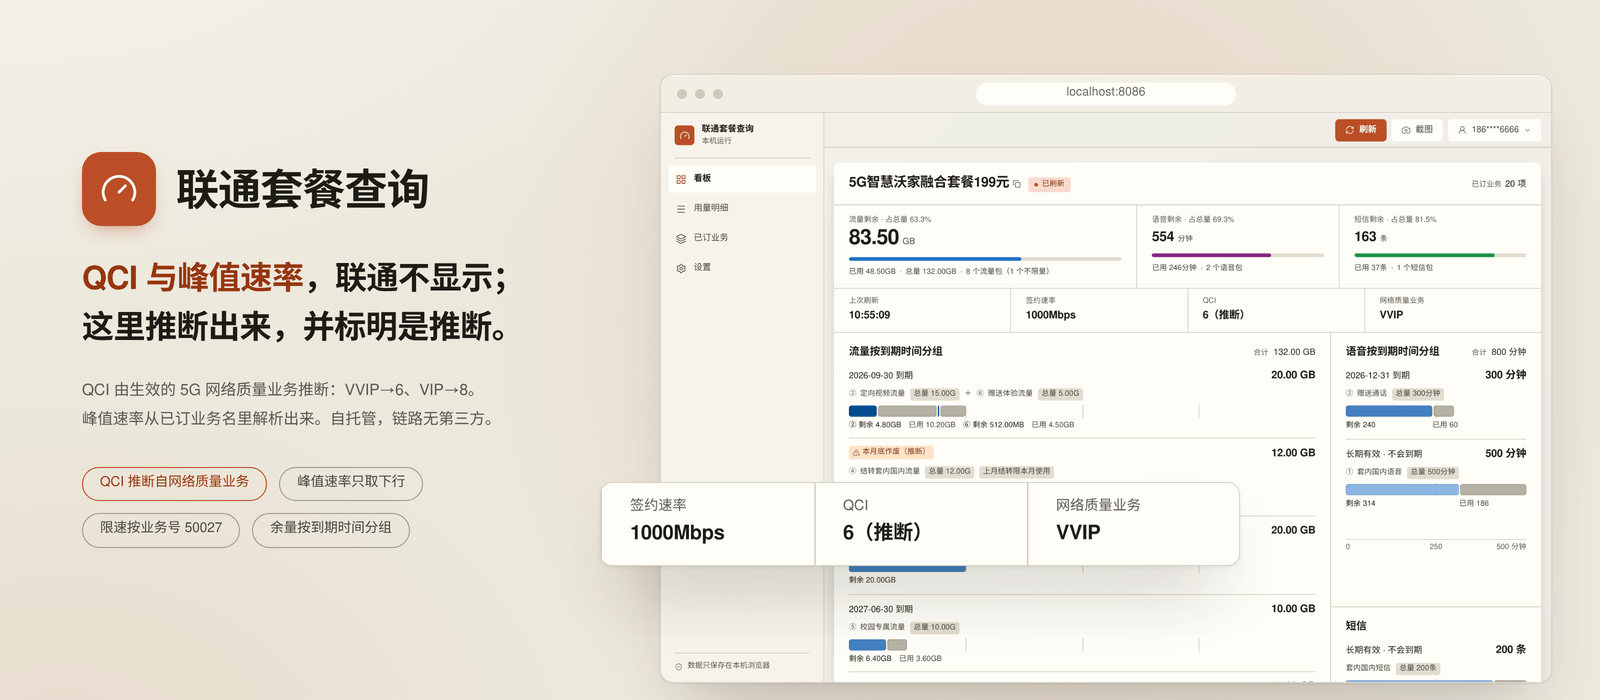
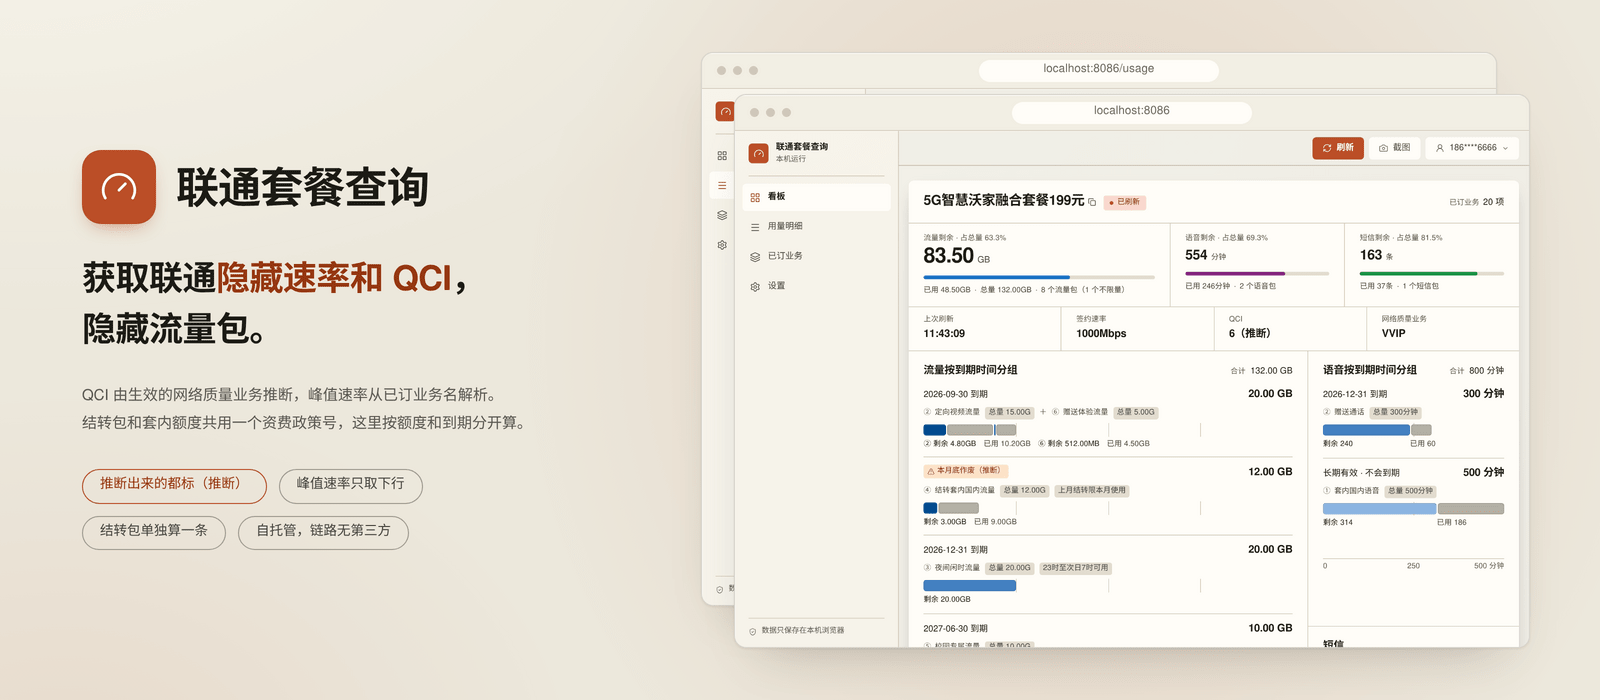
docs: plainer headline, two-window hero
The hero headline read as translated Chinese — it had put the epistemics
in the title. Use the owner's own wording, keep the derived-and-labelled
story in the body where it belongs, and give the Chinese tagline the
same plain register.

"隐藏流量包" is supportable, but the agency belongs in the supporting
line, not the claim: the carrier does return those blocks. They were
collapsing client-side, because the old identity key was the tariff
policy id and one plan derives its in-plan allowance, its carried-over
allowance and its bundled packs from a single policy. So the copy says
the packs are told apart here, never that the carrier withholds them.

Recompose the hero: drop the magnified tile strip, two windows instead
of three, a small offset, and everything inside the frame — smallest
clearance is 52px, no edge clipped.

diff --git a/README.md b/README.md
@@ -6,13 +6,13 @@
 <picture>
   <source media="(prefers-color-scheme: dark)" srcset="docs/screenshots/hero-dark.png" />
   <source media="(prefers-color-scheme: light)" srcset="docs/screenshots/hero-light.png" />
-  <img src="docs/screenshots/hero-light.png" alt="联通套餐查询 — the 签约速率, QCI and 网络质量业务 tiles lifted out of the dashboard at twice the scale, showing 1000Mbps, 6（推断）and VVIP: three parameters the carrier's own app never prints" width="880" />
+  <img src="docs/screenshots/hero-light.png" alt="联通套餐查询 — two stacked browser windows: 看板 in front with 签约速率 1000Mbps, QCI 6（推断）, 网络质量业务 VVIP and the data packs grouped by expiry date, 用量明细 behind it listing all eight packs one by one" width="880" />
 </picture>
 
 # Unicom Usage Panel
 
-**The network-quality parameters China Unicom never shows you — worked out, and labelled as worked out.**
-QCI derived from the active 5G quality subscription, peak downlink parsed out of the subscribed-service names, throttling matched by its own service id. Plan balances, grouped by expiry date, come with them — on a server you run.
+**The rate and QCI China Unicom's own app never shows you — worked out. The packs that quietly collapse into one — listed one by one.**
+QCI derived from the active 5G quality subscription, peak downlink parsed out of the subscribed-service names, every inferred value labelled `（推断）`. A carried-over allowance shares its tariff-policy id with the in-plan one, so deduplicating on that id drops it whole; identity here is the policy plus the block's own name, size and expiry. Balances come grouped by expiry date — on a server you run.
 
 [![License](https://img.shields.io/badge/license-MIT-blue?style=flat-square)](./LICENSE)
 [![Vue](https://img.shields.io/badge/Vue-3.5-4FC08D?style=flat-square&logo=vue.js&logoColor=white)](package.json)

diff --git a/README.zh-CN.md b/README.zh-CN.md
@@ -6,13 +6,13 @@
 <picture>
   <source media="(prefers-color-scheme: dark)" srcset="docs/screenshots/hero-dark.png" />
   <source media="(prefers-color-scheme: light)" srcset="docs/screenshots/hero-light.png" />
-  <img src="docs/screenshots/hero-light.png" alt="联通套餐查询 —— 从看板里放大出来的签约速率、QCI 与网络质量业务三块磁贴，显示 1000Mbps、6（推断）与 VVIP，都是官方 App 从不打印的参数" width="880" />
+  <img src="docs/screenshots/hero-light.png" alt="联通套餐查询 —— 两个叠放的浏览器窗口：前面是看板，显示签约速率 1000Mbps、QCI 6（推断）、网络质量业务 VVIP 以及按到期时间分组的流量包；后面是用量明细，八个流量包一条条列出来" width="880" />
 </picture>
 
 # 余量面板
 
-**把联通不显示的网络质量参数算出来，并老实标明这是推断。**
-QCI 由生效的 5G 网络服务质量业务推断，峰值速率从已订业务名里解析，限速按独立业务号识别；套餐余量按到期时间分组一并给你，全部跑在自己的服务器上。
+**联通不显示的速率和 QCI，这里算出来；结转、附赠这些容易被合并掉的流量包，这里一块不少。**
+QCI 由生效的 5G 网络服务质量业务推断，峰值速率从已订业务名里解析，凡是推断出来的值都标着（推断）。结转包和套内额度共用同一个资费政策号，只按这个号去重整块就没了，所以这里按资费政策加上资源块自己的名称、额度、到期来认身份。套餐余量按到期时间分组一并给你，全部跑在自己的服务器上。
 
 [![License](https://img.shields.io/badge/license-MIT-blue?style=flat-square)](./LICENSE)
 [![Vue](https://img.shields.io/badge/Vue-3.5-4FC08D?style=flat-square&logo=vue.js&logoColor=white)](package.json)
